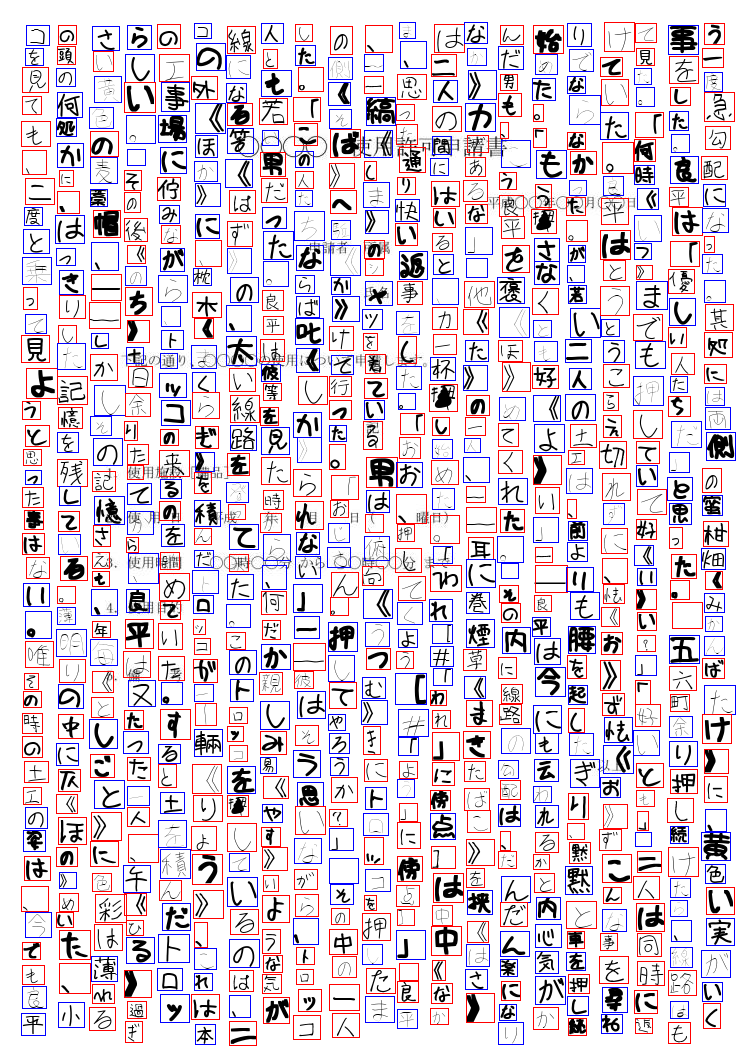
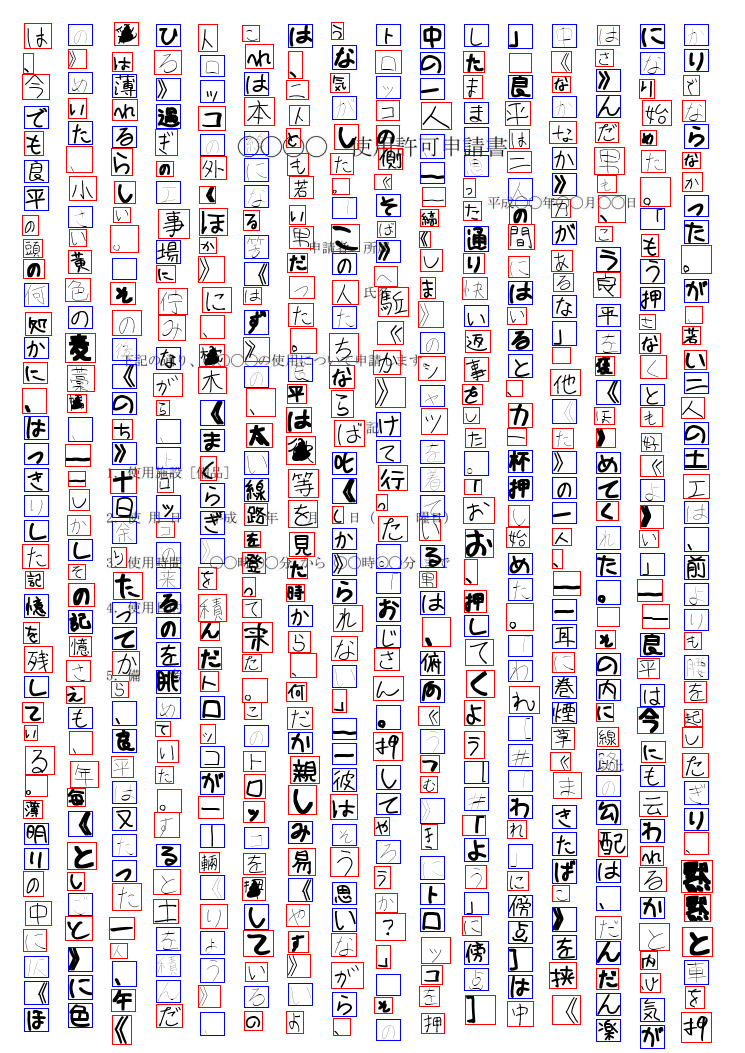
add config random

diff --git a/random_char_image/__init__.py b/random_char_image/__init__.py
@@ -46,7 +46,7 @@ class RandomImage:
         self.line_space = 4
         self.fontsize = 24
         self.text = TextRepo()
-        self.font_paths: t.Dict[str, int] = dict()
+        self.font_paths: t.Dict[str, t.Tuple[int, bool]] = dict()
         self.font_space = 4
 
     def with_config(
@@ -67,8 +67,10 @@ class RandomImage:
         self.size = img.size
         return self
 
-    def with_label_font(self, path: str, label: int = 0,) -> "RandomImage":
-        self.font_paths[path] = label
+    def with_label_font(
+        self, path: str, label: int = 0, is_random: bool = True
+    ) -> "RandomImage":
+        self.font_paths[path] = (label, is_random)
         return self
 
     def with_text(self, text: TextRepo) -> "RandomImage":
@@ -93,12 +95,16 @@ class RandomImage:
         font_paths = list(self.font_paths.keys())
         for c in self.text.get(char_count):
             fpath = random.choice(font_paths)
-            label = self.font_paths[fpath]
-            font = ImageFont.truetype(
-                fpath, int(self.fontsize * np.random.uniform(low=0.7, high=1.3)),
-            )
+            label, is_random = self.font_paths[fpath]
+            n_font = 1.0
+            if is_random:
+                n_font = np.random.uniform(low=0.7, high=1.3)
+            font = ImageFont.truetype(fpath, int(self.fontsize * n_font),)
             w, h = font.getsize(c)
-            n_x, n_y = 0.2 * (np.random.rand(2) - 0.5)
+            n_x = 0.0
+            n_y = 0.0
+            if is_random:
+                n_x, n_y = 0.2 * (np.random.rand(2) - 0.5)
             char_x: int = x + w * n_x
             char_y: int = y + h * n_y
             draw.text((char_x, char_y), c, font=font, fill="black")

diff --git a/tests/test_dataset.py b/tests/test_dataset.py
@@ -10,12 +10,15 @@ def test_image() -> None:
 
     ri = (
         RandomImage()
-        .with_config(fontsize=24, line_space=10, char_space=10, direction="column")
+        .with_config(fontsize=24, line_space=20, char_space=20, direction="column")
         .with_backgrand(br.get())
         .with_text(text)
     )
     for i, p in enumerate(glob("fonts/*.ttf")):
-        ri.with_label_font(p, i % 2)
+        if i % 2 == 0:
+            ri.with_label_font(p, label=0, is_random=True)
+        else:
+            ri.with_label_font(p, label=1, is_random=False)
 
     img, boxes, labels = ri.get()
     draw = ImageDraw.Draw(img)

diff --git a/setup.py b/setup.py
@@ -8,9 +8,7 @@ setup(
     author_email="yao.ntno@google.com",
     license="TODO",
     packages=find_packages(),
-    package_data={
-        "random_char_image": ["py.typed"],
-    },
+    package_data={"random_char_image": ["py.typed"],},
     install_requires=["Pillow", "numpy",],
     extras_require={"dev": ["mypy", "pytest", "black",]},
 )

diff --git a/README.md b/README.md
@@ -9,12 +9,15 @@ text = TextRepo().with_file("texts/hvt.txt")
 
 ri = (
     RandomImage()
-    .with_config(fontsize=24, line_space=10, char_space=10, direction="column")
+    .with_config(fontsize=24, line_space=20, char_space=20, direction="column")
     .with_backgrand(br.get())
     .with_text(text)
 )
 for i, p in enumerate(glob("fonts/*.ttf")):
-    ri.with_label_font(p, i % 2)
+    if i % 2 == 0:
+        ri.with_label_font(p, label=0, is_random=True)
+    else:
+        ri.with_label_font(p, label=1, is_random=False)
 
 img, boxes, labels = ri.get()
 draw = ImageDraw.Draw(img)
